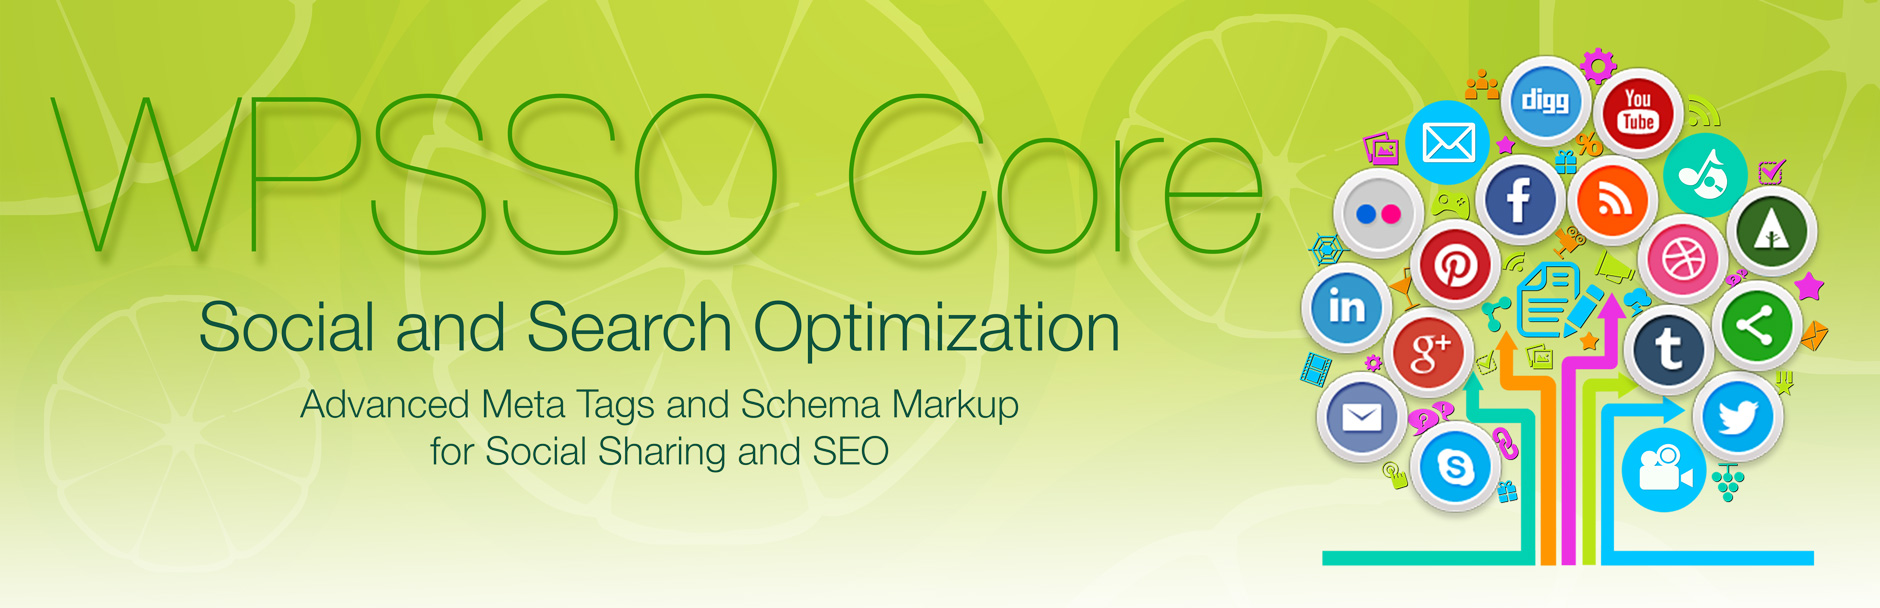
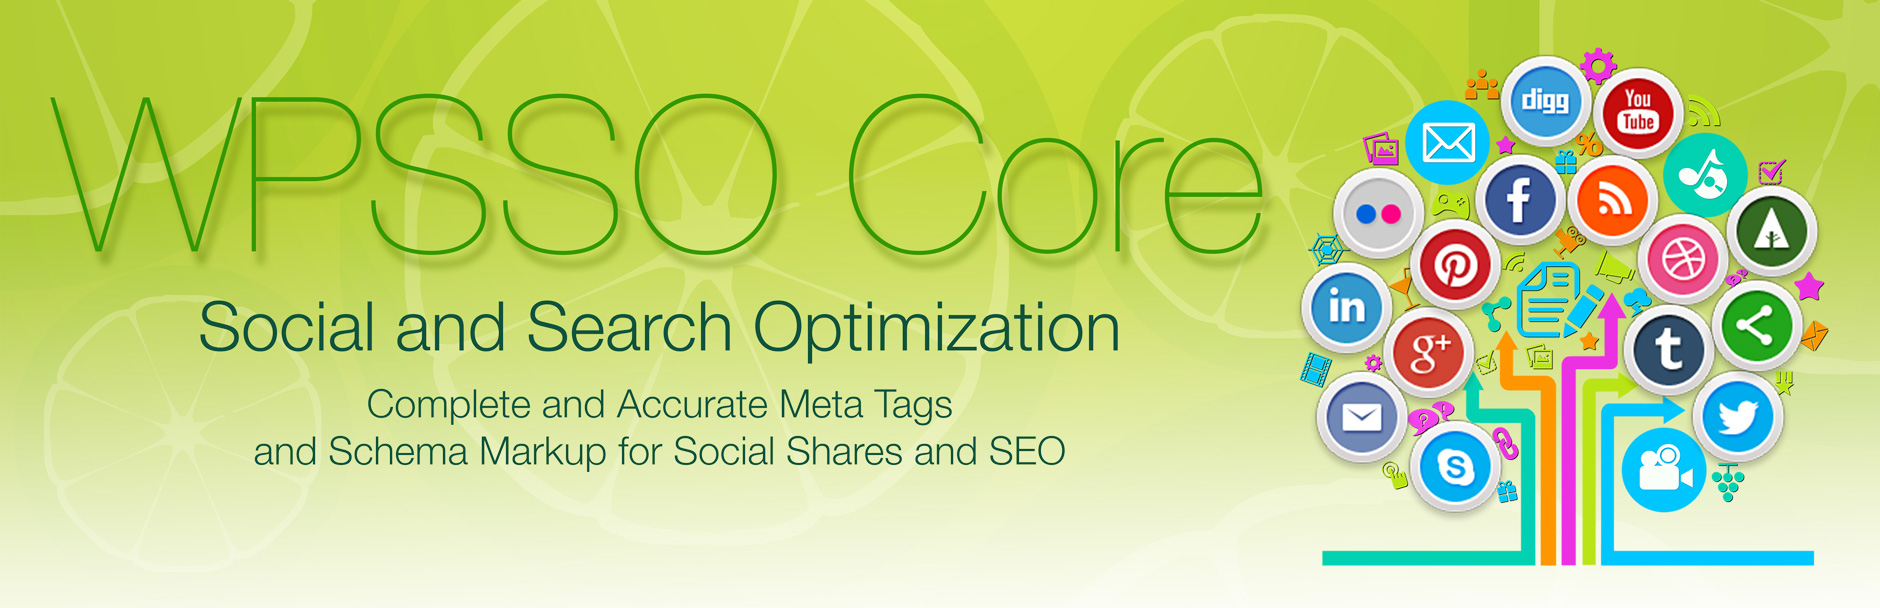
non-essential support files (documentation and assets)

Changed region(s): [[0.1234, 0.7188, 0.5553, 0.7812], [0.1543, 0.625, 0.5553, 0.6875]]

diff --git a/index.html b/index.html
@@ -25,11 +25,11 @@
         </ul>
       </header>
       <section>
-<h1>WPSSO Core</h1><h3>Advanced + Complete Meta Tags and Schema Markup for Social Shares and SEO</h3>
+<h1>WPSSO Core</h1><h3>Complete and Accurate Meta Tags and Schema Markup for Social Shares and SEO</h3>
 
 <table>
 <tr><th align="right" valign="top" nowrap>Plugin Name</th><td>WPSSO Core [Main Plugin]</td></tr>
-<tr><th align="right" valign="top" nowrap>Summary</th><td>Automatically create complete meta tags &amp; Schema markup from your content for Social Sharing, Google Rich Cards (SEO), Pinterest Rich Pins + more.</td></tr>
+<tr><th align="right" valign="top" nowrap>Summary</th><td>Automatically create complete meta tags + Schema markup from your content for Social Sharing, Google Rich Cards (SEO), Pinterest Rich Pins &amp; more.</td></tr>
 <tr><th align="right" valign="top" nowrap>Stable Version</th><td>3.56.3</td></tr>
 <tr><th align="right" valign="top" nowrap>Requires At Least</th><td>WordPress 3.8</td></tr>
 <tr><th align="right" valign="top" nowrap>Tested Up To</th><td>WordPress 4.9.4</td></tr>
